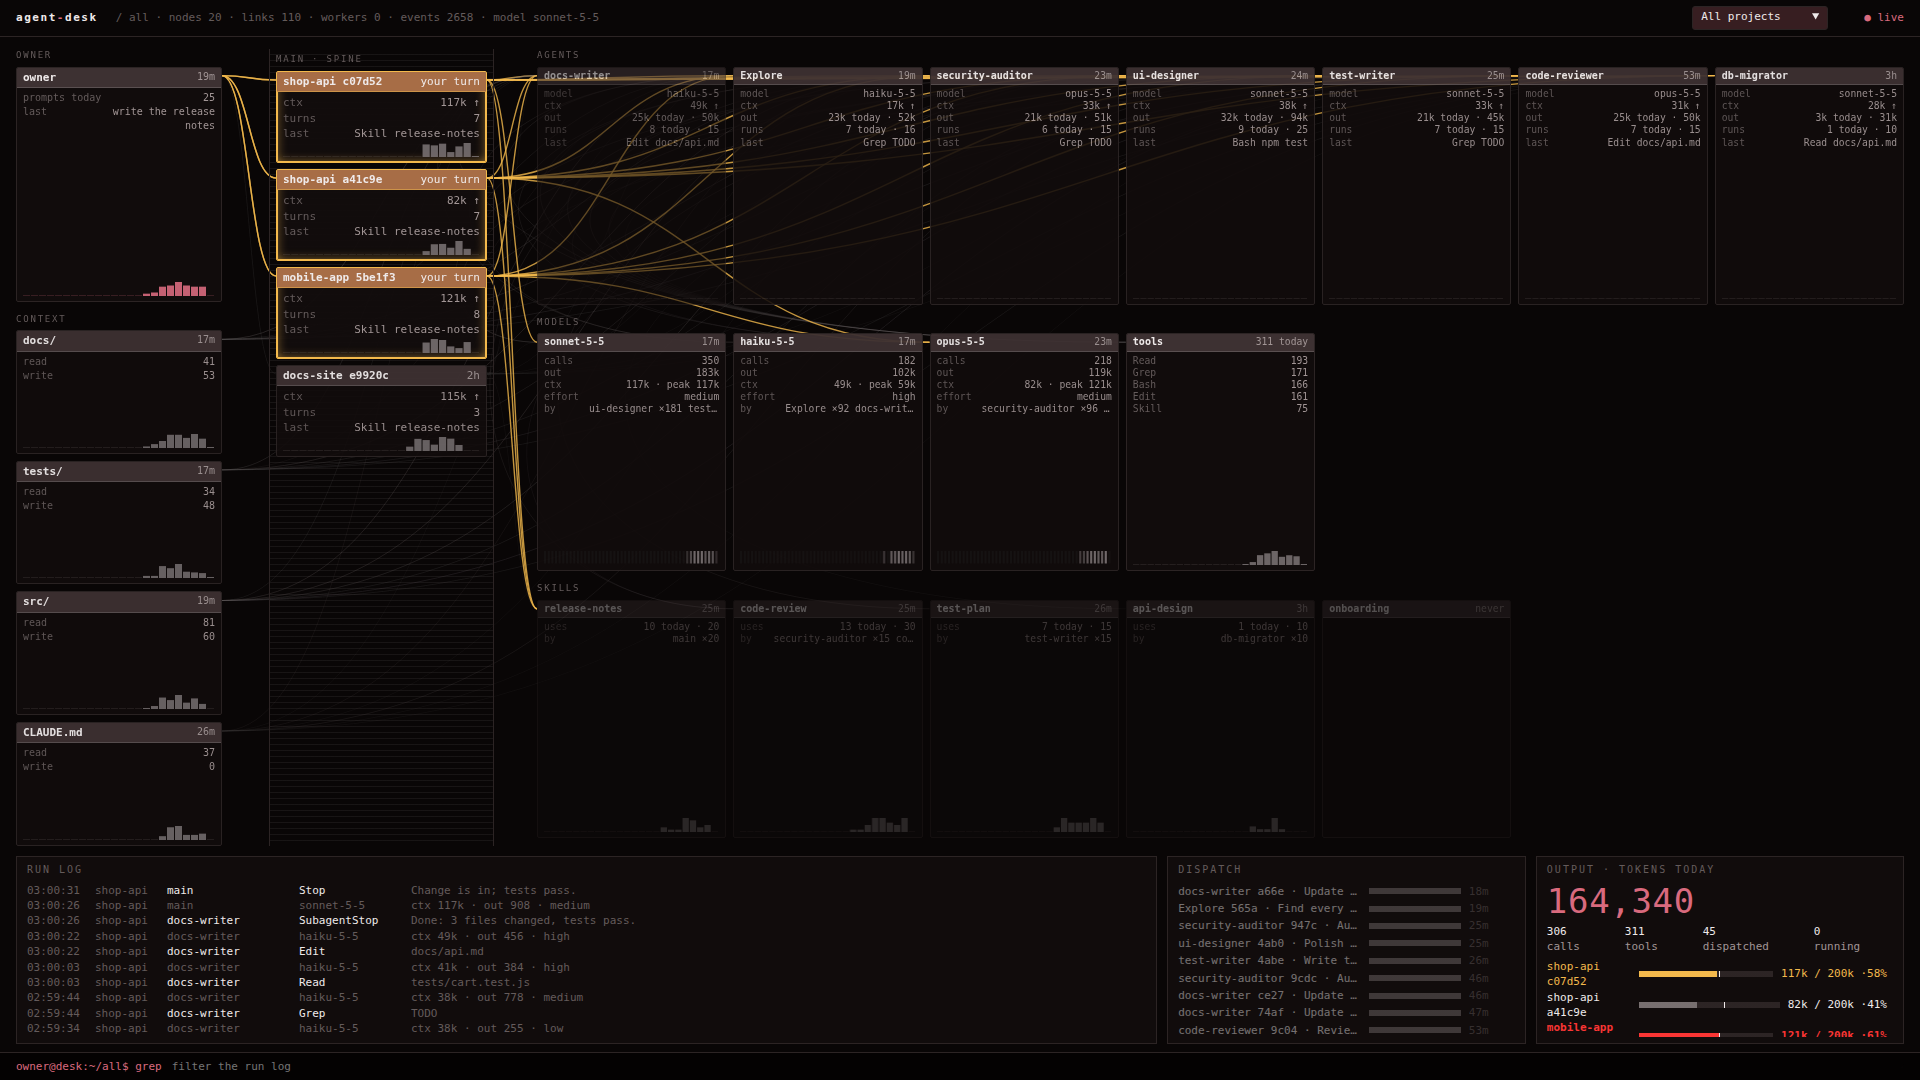
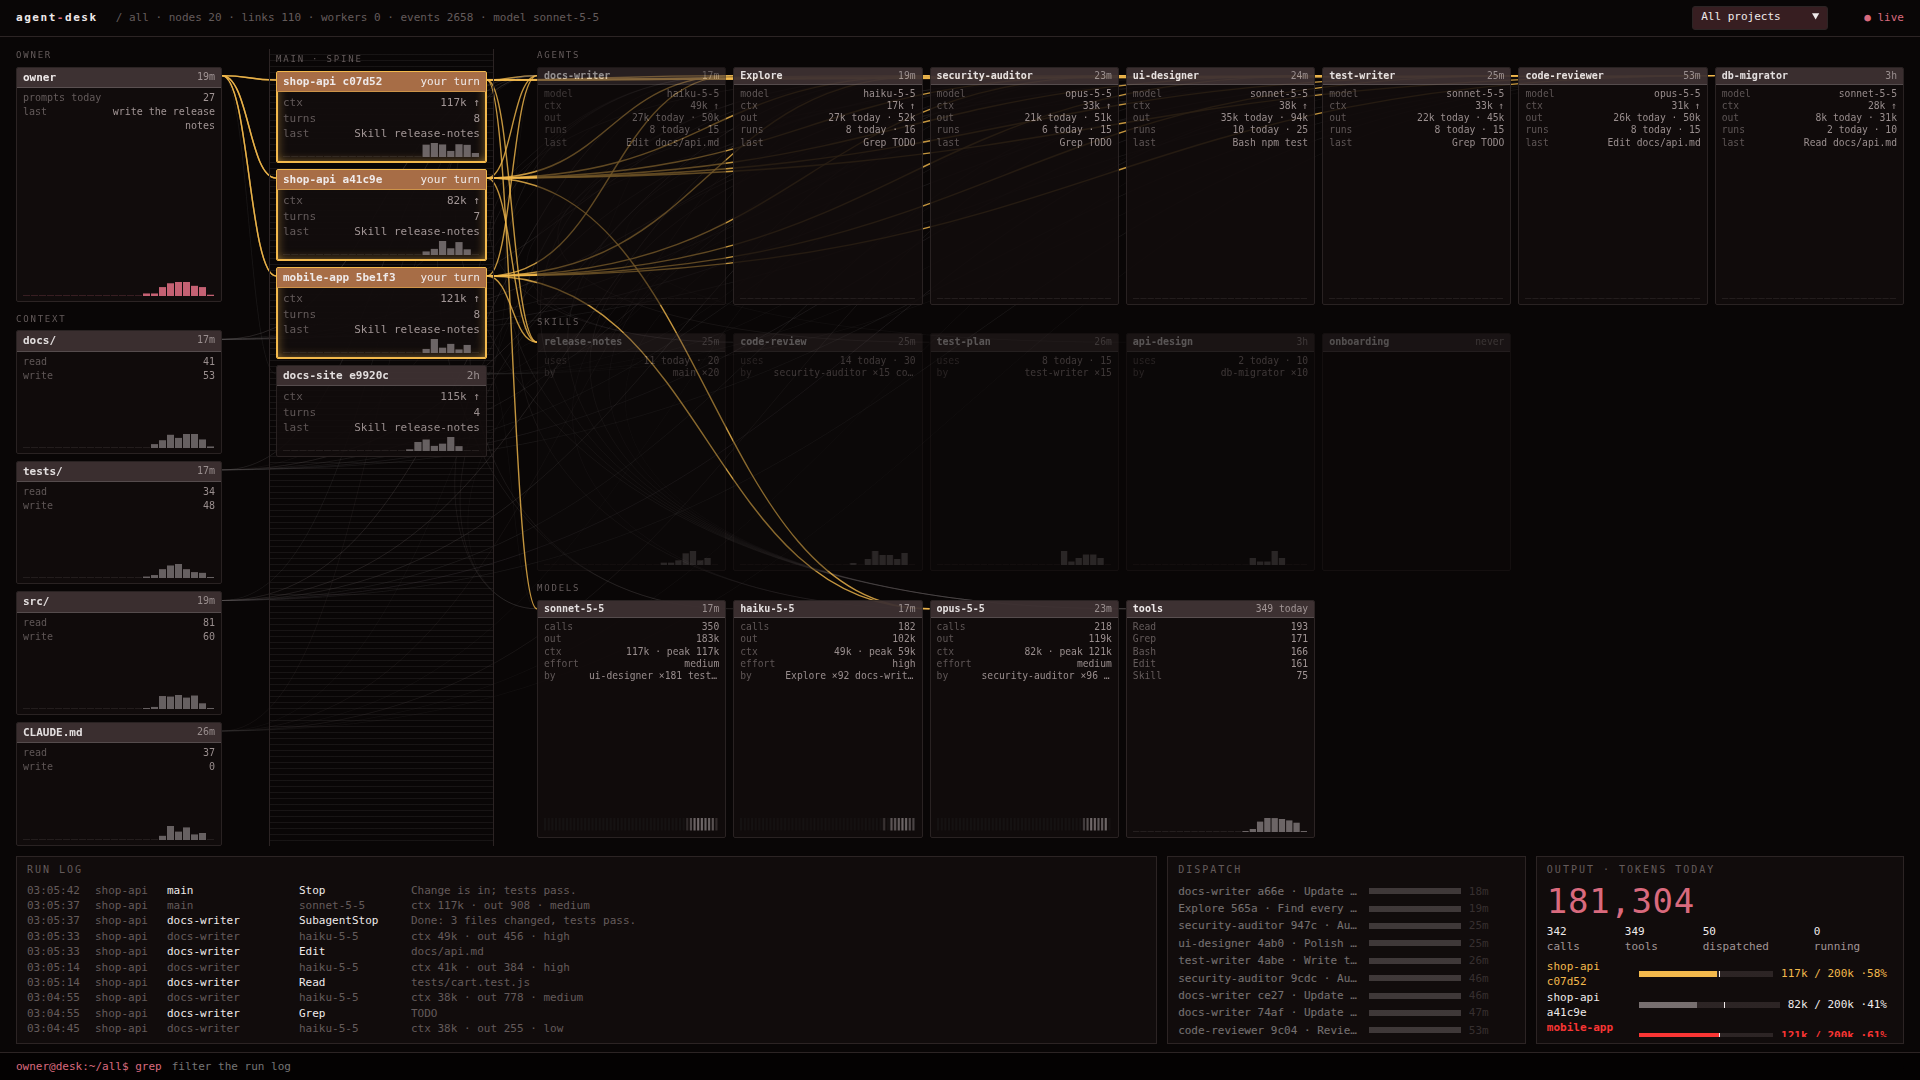
Section order: agents, skills, models

diff --git a/index.html b/index.html
@@ -418,7 +418,8 @@ function render() {
   const skills = [...new Set([...skillset, ...s.skills.keys()])].map(k => [k, s.skills.get(k)]).sort((a, b) => (b[1]?.t || 0) - (a[1]?.t || 0))
     .map(([k, x]) => [node('K:' + k), k, x ? ago(x.t) : 'never', x && now - x.t < 30 ? 'run' : age(x?.t),
       x ? [['uses', `${x.today} today · ${x.n}`], ['by', [...x.by].sort((a, b) => b[1] - a[1]).slice(0, 2).map(([a, c]) => `${a} ×${c}`).join(' ')]] : [], x && bars(last(x.hours, 24, 3600))])
-  place('right', [heading('agents'), ...items, heading('models'), ...models, tools, ...skills.length ? [heading('skills'), ...skills] : []])
+  // reading order = the chain of work: who does it, the know-how they load, the engine it runs on
+  place('right', [heading('agents'), ...items, ...skills.length ? [heading('skills'), ...skills] : [], heading('models'), ...models, tools])
   // tile height that fits every agent and model row in the visible area (an open agent takes four cells)
   const R = $('right'), cols = getComputedStyle(R).gridTemplateColumns.split(' ').length
   const fit = Math.ceil((items.length + open.size * 3) / cols) + Math.ceil((models.length + 1) / cols) + Math.ceil(skills.length / cols)
